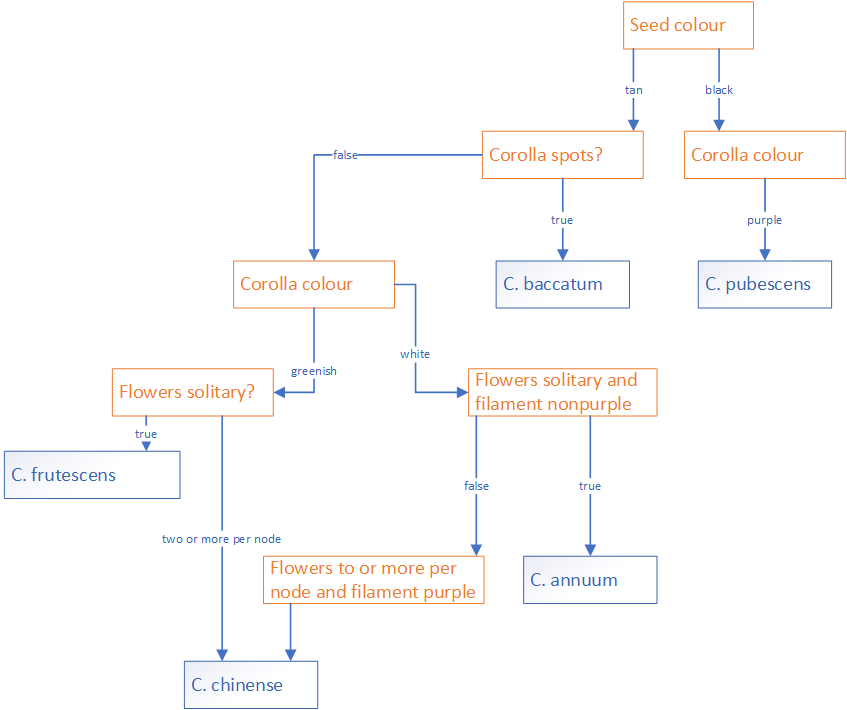
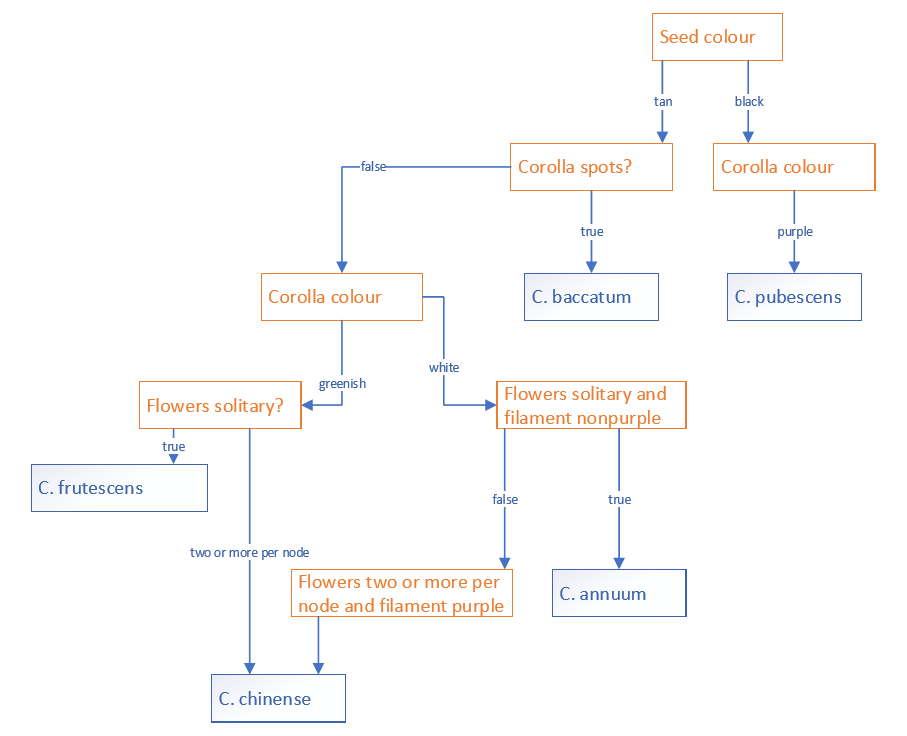
last for today

Changed region(s): [[0.0, 0.0, 0.9823, 1.0], [0.9823, 0.1859, 1.0, 0.2479], [0.1842, 0.6817, 0.2149, 0.7127]]

diff --git a/capsicum.py b/capsicum.py
@@ -10,7 +10,8 @@ from sklearn import tree
 from IPython.display import Image  
 import pydotplus
 from io import StringIO
-
+#import pickle
+from joblib import dump, load
 
 # git add -u
 # git commit -m ""
@@ -19,57 +20,42 @@ from io import StringIO
 
 filename = 'capsicum.csv'
 
-df = pd.read_csv(filename, sep=';')
+def capsicum(filename):
+   df = pd.read_csv(filename, sep=';')
+   print('*** df ***')
+   print(df.describe())
+   print(df.head(18))
 
-# I won't use these columns in the first version
-df1 = df.drop(['flowers solitary','filament colour','flowers per node','genus','name'], axis=1)
-df.drop(['filament colour'], axis=1)
-df.drop(['flowers per node'], axis=1)
-df.drop(['genus'], axis=1)
-df.drop(['name'], axis=1)
+   df1 = pd.get_dummies(df['seed colour'],['corolla colour'],['corolla spots'],['flowers solitary'],['name'],['genus'],['species'] )
+   #['filament colour'],['flowers per node'],
+   #   df.drop(['flowers solitary','filament colour','flowers per node','genus','name'], axis=1)
+   print('*** df1 ***')
+   #print(df1.describe())
+   print(df1.head(18))
 
-print(df1.describe())
-print(df1.head())
+   clf = DecisionTreeClassifier(criterion='entropy',random_state=0)
+   clf_train = clf.fit(df1, df['seed colour'])
 
-# Step 2: Make an instance of the Model
-#clf = DecisionTreeClassifier(max_depth = 2, random_state = 0)
-clf = DecisionTreeClassifier()
-df2 = pd.get_dummies(df1['seed colour'],['corolla colour'],['corolla spots'],['species'])
-print('*** Step 2 ***')
-print(df2.describe())
-print(df2.head())
+   #X_train, X_test, Y_train, Y_test = train_test_split(df2, df2, random_state=10)
+   # Step 3: Train the model on the data
+   #clf.fit(X_train, Y_train)
+   
+   #y_pred = clf_train.predict(X_test)
+   #print(y_pred)
+   # Export/Print a decision tree in DOT format.
+   dot_data = StringIO()
+   tree.export_graphviz(clf_train, out_file=dot_data,feature_names=list(df1.columns.values), class_names=['abc', 'def'], rounded=True, filled=True)
+   graph = pydotplus.graph_from_dot_data(dot_data.getvalue())
+   graph.write_png("capsicum.png")
+
+   #s = pickle.dumps(clf_train)
+   dump(clf_train, 'capsicum.joblib') 
+   #clf2 = pickle.loads(s)
+   #clf2.predict(X[0:1])
 
 
-clf_train = clf.fit(df1, df1)
+def main():
+   capsicum(filename)
 
-X_train, X_test, Y_train, Y_test = train_test_split(df1, df1, random_state=0)
-
-# Step 3: Train the model on the data
-#clf.fit(X_train, Y_train)
-#clf.fit(df['Seed colour']['Filament colour'], df['Corolla spots']['Flowers per node'])
-# Step 4: Predict labels of unseen (test) data
-
-
-print("DF")
-print(df.describe())
-print(df.head())
-print("DF1")
-print(df1.describe())
-print(df1.head())
-print("X_train")
-print(X_train.describe())
-print(X_train.head())
-
-print("Y_train")
-print(Y_train.describe())
-print(Y_train.head())
-
-clf_train = clf.fit(X_train, Y_train)
-# Export/Print a decision tree in DOT format.
-dot_data = StringIO()
-tree.export_graphviz(clf_train, out_file=dot_data,feature_names=list(df1.columns.values))
-graph = pydotplus.graph_from_dot_data(dot_data.getvalue())
-graph.write_png("capsicum.png")
-
-#dot_data = tree.export_graphviz(clf_train, out_file=None, feature_names=list(one_hot_data.columns.values), 
-#                                class_names=['Not_Play', 'Play'], rounded=True, filled=True) #Gini decides which attribute/feature should be placed at the root node, which features will act as internal nodes or leaf nodes#Create Graph from DOT data
+if __name__ == "__main__":
+    main()
